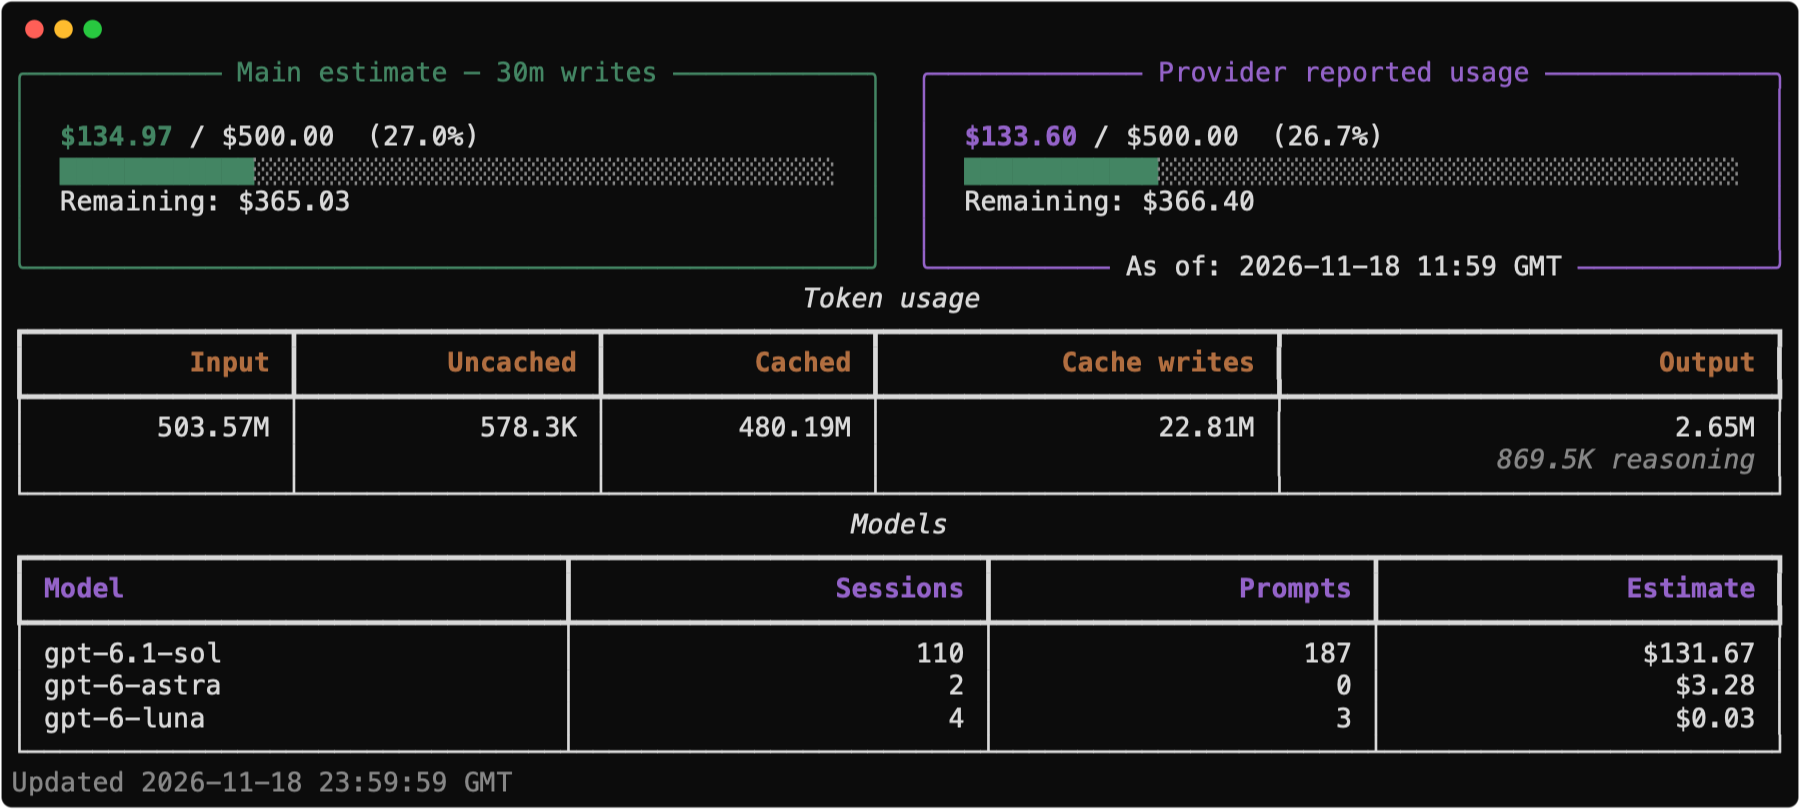
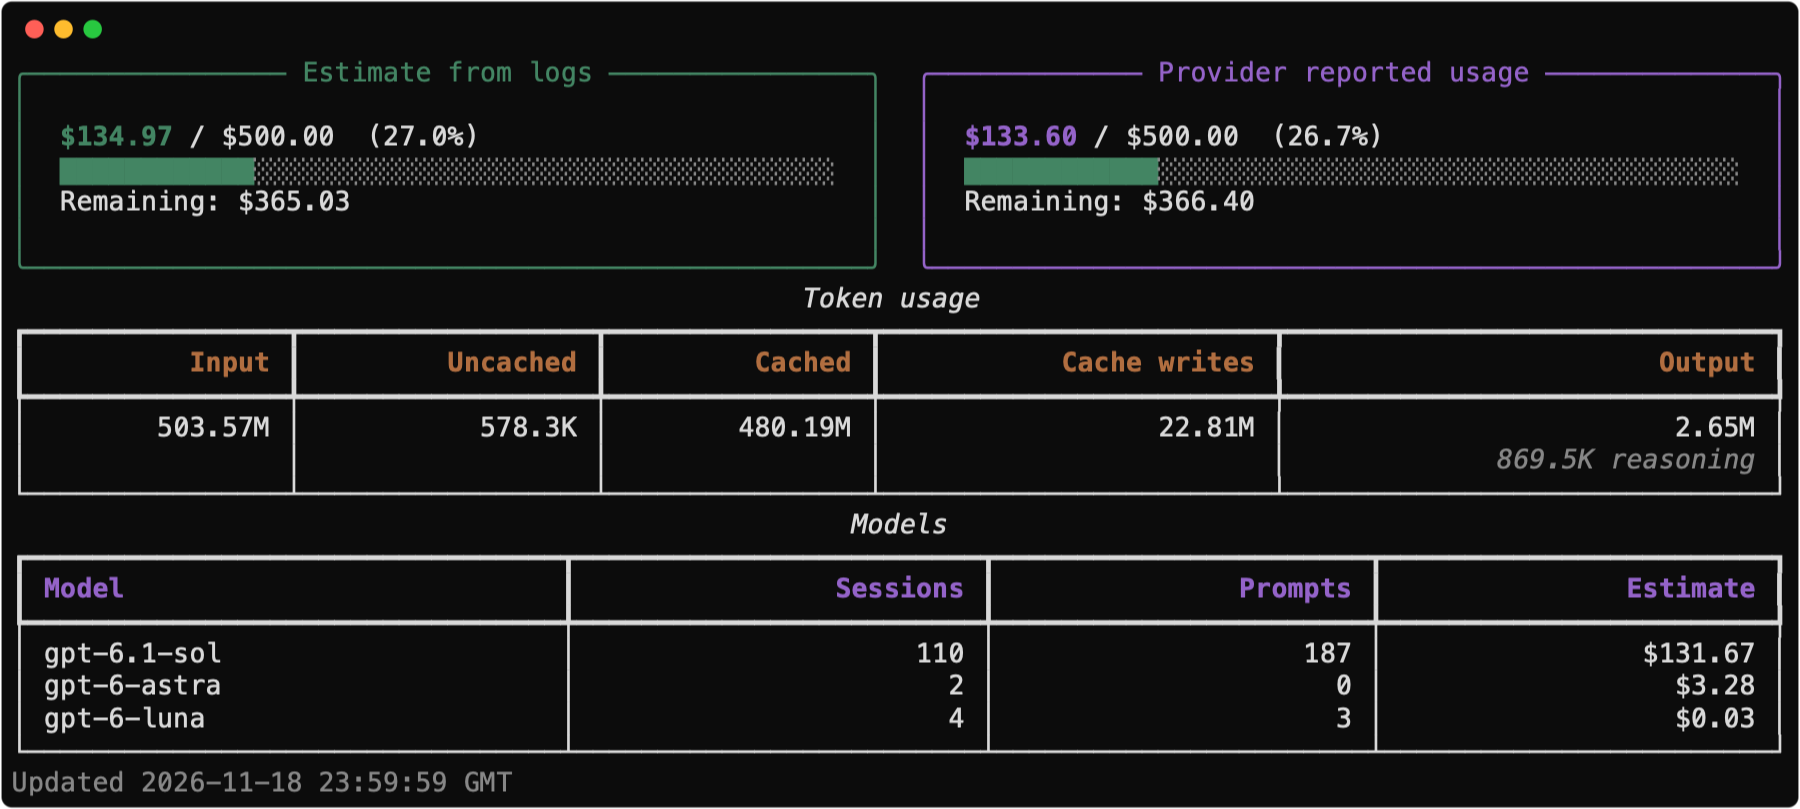
Timestamp fixes.

Changed region(s): [[0.1244, 0.0618, 0.3733, 0.1236], [0.6222, 0.309, 0.8711, 0.3399]]

diff --git a/tests/test_render.py b/tests/test_render.py
@@ -99,7 +99,7 @@ def test_dashboard_layout_is_readable_at_different_widths(width, state) -> None:
     stream = StringIO()
     Console(file=stream, width=width).print(dashboard_renderable(report, scan))
     text = stream.getvalue()
-    assert "Main estimate — 30m writes" in text
+    assert "Estimate from logs" in text
     assert "Upper bound" not in text
     assert "Midpoint:" not in text
     assert "Codex Usage Tracker" not in text
@@ -109,7 +109,7 @@ def test_dashboard_layout_is_readable_at_different_widths(width, state) -> None:
     assert "Trailing" not in text
     assert "parser/deduplication" not in text
     assert all(len(line) <= width for line in text.splitlines())
-    assert text.count("Main estimate —") == 1
+    assert text.count("Estimate from logs") == 1
     assert sum("░" in line or "█" in line for line in text.splitlines()) == 1
     if state == "partial":
         assert text.count("Partial estimate") == 1
@@ -219,7 +219,7 @@ def test_provider_panels_fit_and_only_stack_when_content_requires_it(width) -> N
     assert all(len(line) <= width for line in lines)
     assert "$1.23 / $500.00  (0.2%)" in text
     assert "$480.01 / $500.00  (96.0%)" in text
-    assert "As of: 2026-07-28 00:00 UTC" in text
+    assert "As of" not in text
     assert "Remaining: $19.99" in text
     assert "Upper bound" not in text and "Midpoint" not in text
 
@@ -245,7 +245,7 @@ def test_endpoint_failure_keeps_local_estimate_visible(cached) -> None:
         report_fixture(), ScanResult([], [], 0, 0), endpoint=state,
     ))
     text = stream.getvalue()
-    assert "Main estimate" in text and "$1.23" in text
+    assert "Estimate from logs" in text and "$1.23" in text
     assert "Could not reach endpoint." in text
     assert ("Last successful response" in text) is cached
     assert ("$480.01" in text) is cached
@@ -264,20 +264,20 @@ def test_provider_limit_is_independent_and_missing_limit_uses_local_budget() -> 
         assert expected in stream.getvalue()
 
 
-@pytest.mark.parametrize("zone,as_of,now,expected_as_of,expected_updated", [
+@pytest.mark.parametrize("zone,as_of,now,expected_updated", [
     ("Europe/London", "2026-11-22T00:00:00Z", "2026-11-22T12:00:00Z",
-     "2026-11-22 00:00 GMT", "2026-11-22 12:00:00 GMT"),
+     "2026-11-22 12:00:00 GMT"),
     ("Europe/London", "2026-07-28T00:00:00Z", "2026-07-29T12:00:00Z",
-     "2026-07-28 01:00 BST", "2026-07-29 13:00:00 BST"),
+     "2026-07-29 13:00:00 BST"),
     ("Europe/London", "2026-03-29T00:30:00Z", "2026-03-29T01:30:00Z",
-     "2026-03-29 00:30 GMT", "2026-03-29 02:30:00 BST"),
+     "2026-03-29 02:30:00 BST"),
     ("America/New_York", "2026-11-22T00:00:00Z", "2026-11-22T12:00:00Z",
-     "2026-11-21 19:00 EST", "2026-11-22 07:00:00 EST"),
+     "2026-11-22 07:00:00 EST"),
     ("Asia/Kolkata", "2026-11-22T00:00:00Z", "2026-11-22T12:00:00Z",
-     "2026-11-22 05:30 IST", "2026-11-22 17:30:00 IST"),
+     "2026-11-22 17:30:00 IST"),
 ])
-def test_both_timestamps_use_reporting_timezone_and_json_preserves_offsets(
-    settings_factory, zone, as_of, now, expected_as_of, expected_updated,
+def test_provider_timestamp_is_hidden_and_local_updated_preserves_json_offsets(
+    settings_factory, zone, as_of, now, expected_updated,
 ) -> None:
     settings, _ = settings_factory()
     settings = replace(settings, timezone=ZoneInfo(zone))
@@ -290,7 +290,7 @@ def test_both_timestamps_use_reporting_timezone_and_json_preserves_offsets(
         stream = StringIO()
         Console(file=stream, width=110).print(dashboard_renderable(report, scan, endpoint=endpoint))
         text = stream.getvalue()
-        assert f"As of: {expected_as_of}" in text
+        assert "As of" not in text
         assert f"Updated {expected_updated}" in text
         payload = _report_dict(report, endpoint)
         assert payload["end"] == now.isoformat()

diff --git a/src/codex_usage/render.py b/src/codex_usage/render.py
@@ -86,7 +86,7 @@ def budget_panel(report: UsageReport, *, show_cost_range: bool = False) -> Panel
     if report.partial_cost:
         pieces.append(Text("Partial estimate", style="bold yellow"))
     return Panel(
-        Group(*pieces), title="Main estimate — 30m writes", border_style=style, padding=(1, 2)
+        Group(*pieces), title="Estimate from logs", border_style=style, padding=(1, 2)
     )
 
 
@@ -94,7 +94,6 @@ def endpoint_panel(state: EndpointState, report: UsageReport) -> Panel:
     pieces: list[RenderableType] = []
     style = ACCENT_PURPLE
     cost = state.cost
-    subtitle = None
     if cost is not None:
         text = Text.assemble((format_money(cost.usage_usd), f"bold {style}"))
         pieces.append(text)
@@ -106,16 +105,13 @@ def endpoint_panel(state: EndpointState, report: UsageReport) -> Panel:
                 _BudgetProgressBar(ratio),
                 Text(f"Remaining: {format_money(max(Decimal('0'), limit - cost.usage_usd))}"),
             ])
-        as_of = cost.as_of.astimezone(report.display_timezone) if cost.as_of else None
-        stamp = as_of.strftime('%Y-%m-%d %H:%M %Z') if as_of else "not supplied"
-        subtitle = Text(f"As of: {stamp}", style="default")
     elif state.refreshing:
         pieces.append(Text("Fetching reported usage…", style="dim"))
     if state.error:
         if cost:
             pieces.append(Text("Last successful response; refresh failed.", style="yellow"))
         pieces.append(Text(state.error, style="yellow"))
-    return Panel(Group(*pieces), title="Provider reported usage", subtitle=subtitle,
+    return Panel(Group(*pieces), title="Provider reported usage",
                  border_style=style, padding=(1, 2))
 
 
@@ -128,8 +124,8 @@ class _BudgetPanels:
     def __rich_console__(self, console: Console, options: ConsoleOptions) -> RenderResult:
         local = budget_panel(self.report, show_cost_range=self.show_cost_range)
         remote = endpoint_panel(self.endpoint, self.report)
-        # Keep the amount, limit and percentage intact in each half. The timestamp
-        # also needs room; narrower terminals stack the panels without clipping.
+        # Keep the amount, limit and percentage intact in each half; narrower
+        # terminals stack the panels without clipping.
         def amount_width(usage: Decimal, limit: Decimal | None) -> int:
             label = format_money(usage)
             if limit is not None:
@@ -137,13 +133,13 @@ class _BudgetPanels:
                 label += f" / {format_money(limit)}  ({ratio:.1%})"
             return len(label) + 6
 
-        local_width = max(len("Main estimate — 30m writes") + 4,
+        local_width = max(len("Estimate from logs") + 4,
                           amount_width(self.report.cost_usd, self.report.budget_usd))
         remote_width = len("Provider reported usage") + 4
         if self.endpoint.cost:
             cost = self.endpoint.cost
             limit = cost.limit_usd if cost.limit_usd is not None else self.report.budget_usd
-            remote_width = max(remote_width, amount_width(cost.usage_usd, limit), remote.subtitle.cell_len + 4)
+            remote_width = max(remote_width, amount_width(cost.usage_usd, limit))
         if options.max_width < local_width + remote_width + 2:
             yield Group(local, remote)
         else:

diff --git a/tests/test_cli.py b/tests/test_cli.py
@@ -221,7 +221,7 @@ def test_watch_renders_and_refreshes_scenarios_with_warning_preference(settings_
             stream = StringIO()
             Console(file=stream, width=160).print(snapshot)
             rendered = stream.getvalue()
-            assert "Main estimate — 30m writes" in rendered
+            assert "Estimate from logs" in rendered
             assert "Upper bound" not in rendered
             assert "Midpoint:" not in rendered
             assert "Activity" not in rendered
@@ -271,7 +271,7 @@ currency_override = "USD"
     normal = runner.invoke(app, ["--config", str(config)])
     assert normal.exit_code == 0, normal.output
     assert "Provider reported usage" in normal.output and "$480.01" in normal.output
-    assert "As of:" in normal.output
+    assert "As of" not in normal.output
     count = len(calls)
     for args in (["report", "--period", "all", "--json"], ["report", "--model", "model-a", "--json"]):
         result = runner.invoke(app, ["--config", str(config), *args])
@@ -320,5 +320,5 @@ def test_watch_refreshes_endpoint_and_local_costs_independently(settings_factory
     for snapshot in snapshots:
         stream = StringIO()
         Console(file=stream, width=110).print(snapshot)
-        assert "Main estimate" in stream.getvalue()
+        assert "Estimate from logs" in stream.getvalue()
         assert "Provider temporarily unavailable" in stream.getvalue()

diff --git a/src/codex_usage/cli.py b/src/codex_usage/cli.py
@@ -235,9 +235,7 @@ def doctor(ctx: typer.Context) -> None:
     elif endpoint.error:
         checks.add_row("Cost endpoint", "[yellow]WARNING[/]", endpoint.error)
     else:
-        as_of = (endpoint.cost.as_of.astimezone(settings.timezone).strftime("%Y-%m-%d %H:%M:%S %Z")
-                 if endpoint.cost.as_of else "not supplied")
-        checks.add_row("Cost endpoint", "[green]OK[/]", f"Reported usage in USD; as of {as_of}")
+        checks.add_row("Cost endpoint", "[green]OK[/]", "Provider reported usage in USD")
     missing_paths = 0
     for path in settings.source_paths:
         exists = path.is_dir()

diff --git a/README.md b/README.md
@@ -19,7 +19,7 @@ codex-usage
 
 `uv tool install` keeps the installed CLI independent of the project folder. Re-run `uv tool install --force .` after changing the source code.
 
-The default dashboard shows the current calendar month's main estimate against
+The default dashboard shows the current calendar month's estimate from logs against
 `monthly_budget_usd`, with cache writes priced at the 30-minute rate. The Models
 table shows the same local estimate per model. The optional 12-hour upper bound
 and arithmetic midpoint are hidden by default; enable them with
@@ -33,8 +33,8 @@ Configuration is read from `$XDG_CONFIG_HOME/codex-usage/pricing.toml`
 For terminal use from any directory, copy the supplied `pricing.toml` to that
 personal configuration path before customising it.
 
-Both **As of** and **Updated** use `app.timezone`, including daylight-saving
-changes at each timestamp. It defaults to `"local"`, which detects the machine's
+**Updated** uses `app.timezone`, including daylight-saving changes. It defaults
+to `"local"`, which detects the machine's
 timezone when the command starts (honouring an IANA `TZ` environment variable).
 Set an IANA name such as `"Europe/London"` to fix the reporting timezone. This
 also determines calendar-month boundaries. London shows GMT in winter and BST
@@ -96,21 +96,21 @@ Amounts must be non-negative and in USD. If a provider incorrectly labels its
 USD figures as another currency, set `currency_override = "USD"` in
 `[cost_endpoint]`. This changes the label only and performs no conversion.
 Missing currency is treated as USD; any other currency is rejected unless
-overridden. Missing `limit` uses `app.monthly_budget_usd`. Missing `asOf` is
-shown as “not supplied”; when present it must include a timezone. Set a metadata
-field name to an empty string to ignore that response field.
+overridden. Missing `limit` uses `app.monthly_budget_usd`. Optional `asOf`
+metadata is retained in JSON, with its meaning defined by the provider; when
+present it must include a timezone. Set a metadata field name to an empty string
+to ignore that response field.
 
-When enabled, the dashboard shows two budget bars: the current local estimate
-on the left and provider-reported usage on the right. Panels stack only when
-their amounts and timestamp cannot fit side by side. Each uses its own budget
-or limit. The provider's **As of** timestamp is displayed because it may lag
-behind local activity. Its usage and quota period come directly from the
+When enabled, the dashboard shows two budget bars: **Estimate from logs**
+on the left and **Provider reported usage** on the right. Panels stack only when
+their amounts cannot fit side by side. Each uses its own budget or limit.
+The provider's usage and quota period come directly from the
 provider; they are not reconciled with or added to the local calendar-month
 estimate. There is no per-model provider breakdown.
 
 Watch mode refreshes the endpoint in the background at the configured interval,
 independently of local log updates. On failure it retains the last successful
-response and timestamp with a warning. A missing key or failed request leaves
+response with a warning. A missing key or failed request leaves
 the local estimate available. One-off commands use the configured request timeout.
 `doctor` checks the endpoint when enabled. All-time and model-filtered reports
 show only local costs, since the endpoint describes account-wide usage.
